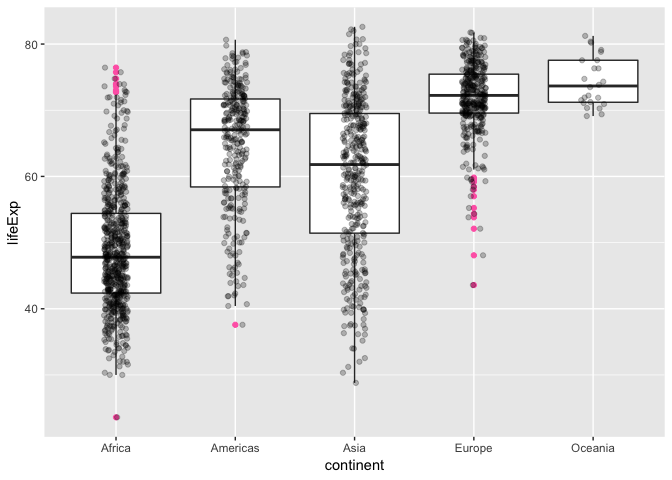
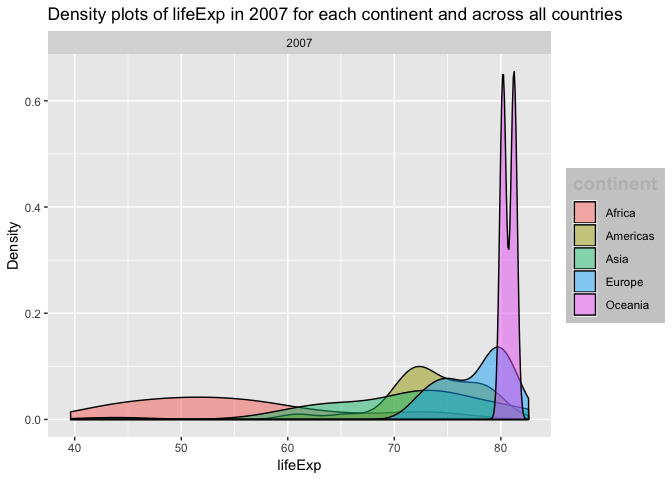
commiting and pushing local changes on gapminder file - exploratory analysis

diff --git a/hw01_gapminder.md b/hw01_gapminder.md
@@ -6,15 +6,71 @@ Becky
 Data exploration using the gapminder data set
 =============================================
 
-Required Libraries
-------------------
+### Required Libraries
 
 ``` r
-library("gapminder")
+library(gapminder)
+require(plyr)
 ```
 
-Dataset exploration and QC
---------------------------
+    ## Loading required package: plyr
+
+``` r
+library(dplyr)
+```
+
+    ## Warning: package 'dplyr' was built under R version 3.5.1
+
+    ## 
+    ## Attaching package: 'dplyr'
+
+    ## The following objects are masked from 'package:plyr':
+    ## 
+    ##     arrange, count, desc, failwith, id, mutate, rename, summarise,
+    ##     summarize
+
+    ## The following objects are masked from 'package:stats':
+    ## 
+    ##     filter, lag
+
+    ## The following objects are masked from 'package:base':
+    ## 
+    ##     intersect, setdiff, setequal, union
+
+``` r
+library(ggplot2)
+library(gapminder)
+gapminder ##calling entire gapminder dataset
+```
+
+    ## # A tibble: 1,704 x 6
+    ##    country     continent  year lifeExp      pop gdpPercap
+    ##    <fct>       <fct>     <int>   <dbl>    <int>     <dbl>
+    ##  1 Afghanistan Asia       1952    28.8  8425333      779.
+    ##  2 Afghanistan Asia       1957    30.3  9240934      821.
+    ##  3 Afghanistan Asia       1962    32.0 10267083      853.
+    ##  4 Afghanistan Asia       1967    34.0 11537966      836.
+    ##  5 Afghanistan Asia       1972    36.1 13079460      740.
+    ##  6 Afghanistan Asia       1977    38.4 14880372      786.
+    ##  7 Afghanistan Asia       1982    39.9 12881816      978.
+    ##  8 Afghanistan Asia       1987    40.8 13867957      852.
+    ##  9 Afghanistan Asia       1992    41.7 16317921      649.
+    ## 10 Afghanistan Asia       1997    41.8 22227415      635.
+    ## # ... with 1,694 more rows
+
+``` r
+max(gapminder$year) 
+```
+
+    ## [1] 2007
+
+``` r
+min(gapminder$year)
+```
+
+    ## [1] 1952
+
+### Dataset exploration and QC - Insepect and understand the dataset before use/ analysis - correct errors like removing NAs
 
 ``` r
 head(gapminder)
@@ -29,6 +85,20 @@ head(gapminder)
     ## 4 Afghanistan Asia       1967    34.0 11537966      836.
     ## 5 Afghanistan Asia       1972    36.1 13079460      740.
     ## 6 Afghanistan Asia       1977    38.4 14880372      786.
+
+``` r
+tail(gapminder)
+```
+
+    ## # A tibble: 6 x 6
+    ##   country  continent  year lifeExp      pop gdpPercap
+    ##   <fct>    <fct>     <int>   <dbl>    <int>     <dbl>
+    ## 1 Zimbabwe Africa     1982    60.4  7636524      789.
+    ## 2 Zimbabwe Africa     1987    62.4  9216418      706.
+    ## 3 Zimbabwe Africa     1992    60.4 10704340      693.
+    ## 4 Zimbabwe Africa     1997    46.8 11404948      792.
+    ## 5 Zimbabwe Africa     2002    40.0 11926563      672.
+    ## 6 Zimbabwe Africa     2007    43.5 12311143      470.
 
 ``` r
 summary(gapminder)
@@ -58,6 +128,181 @@ dim(gapminder)
     ## [1] 1704    6
 
 ``` r
+names(gapminder)
+```
+
+    ## [1] "country"   "continent" "year"      "lifeExp"   "pop"       "gdpPercap"
+
+``` r
+sum(is.na(gapminder$lifeExp))
+```
+
+    ## [1] 0
+
+``` r
+sum(is.na(gapminder$gdpPercap))
+```
+
+    ## [1] 0
+
+``` r
+sum(is.na(gapminder$pop))
+```
+
+    ## [1] 0
+
+``` r
+gapminder[!complete.cases(gapminder),] # view rows with incomplete data
+```
+
+    ## # A tibble: 0 x 6
+    ## # ... with 6 variables: country <fct>, continent <fct>, year <int>,
+    ## #   lifeExp <dbl>, pop <int>, gdpPercap <dbl>
+
+``` r
+gapminder %>% distinct(continent) %>% arrange(continent)
+```
+
+    ## # A tibble: 5 x 1
+    ##   continent
+    ##   <fct>    
+    ## 1 Africa   
+    ## 2 Americas 
+    ## 3 Asia     
+    ## 4 Europe   
+    ## 5 Oceania
+
+``` r
+gapminder %>% distinct(country) %>% arrange(country)
+```
+
+    ## # A tibble: 142 x 1
+    ##    country    
+    ##    <fct>      
+    ##  1 Afghanistan
+    ##  2 Albania    
+    ##  3 Algeria    
+    ##  4 Angola     
+    ##  5 Argentina  
+    ##  6 Australia  
+    ##  7 Austria    
+    ##  8 Bahrain    
+    ##  9 Bangladesh 
+    ## 10 Belgium    
+    ## # ... with 132 more rows
+
+``` r
+gapminder %>% distinct(year) %>% arrange(desc(year))
+```
+
+    ## # A tibble: 12 x 1
+    ##     year
+    ##    <int>
+    ##  1  2007
+    ##  2  2002
+    ##  3  1997
+    ##  4  1992
+    ##  5  1987
+    ##  6  1982
+    ##  7  1977
+    ##  8  1972
+    ##  9  1967
+    ## 10  1962
+    ## 11  1957
+    ## 12  1952
+
+``` r
+unique(gapminder$year)
+```
+
+    ##  [1] 1952 1957 1962 1967 1972 1977 1982 1987 1992 1997 2002 2007
+
+``` r
 #is.na(gapminder)
 #gapm <- na.omit(gapminder)
 ```
+
+### Distribution of gdpPercap across all countries in 2007
+
+``` r
+gapminder %>%
+  filter(year==2007) %>%
+  ggplot() + 
+  geom_histogram(mapping = aes(x = gdpPercap), binwidth = 1000, color = "black") +
+  ggtitle("Distribution of gdpPercap across all countries in 2007") +
+  labs(x="gdpPercap", y="Countries")
+```
+
+![](hw01_gapminder_files/figure-markdown_github/unnamed-chunk-3-1.png)
+
+### Density plots of life expectancy by continent
+
+#### Oldest year 1952
+
+``` r
+lifexp_1952<- gapminder %>% 
+ filter(year == 1952) 
+lifexp_1952 %>%
+ ggplot(aes(x = lifeExp, fill = continent)) + facet_wrap(~year) + geom_density(alpha = 0.5) + ggtitle("Density plots of lifeExp in 1952 for each continent and across all countries") + theme(legend.title = element_text(color = "gray", size = 14, face = "bold"), legend.background = element_rect(fill = "gray80",
+ size = 0.2,
+ linetype = "dashed")) +
+ labs(x="lifeExp", y="Density")
+```
+
+![](hw01_gapminder_files/figure-markdown_github/unnamed-chunk-4-1.png) \#\#\#\# Latest year 2007
+
+``` r
+lifeExp_2007<- gapminder %>% 
+ filter(year == 2007) 
+lifeExp_2007 %>%
+ ggplot(aes(x = lifeExp, fill = continent)) + facet_wrap(~year) + 
+ geom_density(alpha = 0.5) +
+ ggtitle("Density plots of lifeExp in 2007 for each continent and across all countries") +
+ theme(legend.title = element_text(color = "gray",
+ size = 14,
+ face = "bold"),
+ legend.background = element_rect(fill = "gray80",
+ size = 0.5,
+ linetype = "dashed")) +
+ labs(x="lifeExp", y="Density")
+```
+
+![](hw01_gapminder_files/figure-markdown_github/unnamed-chunk-5-1.png)
+
+### Awesome Bubble plot from Jenny's [tutorial on gapminder](https://cran.r-project.org/web/packages/gapminder/README.html)
+
+``` r
+gap_with_colors <-
+  data.frame(gapminder,
+             cc = I(country_colors[match(gapminder$country,
+                                         names(country_colors))]))
+
+# bubble plot, focus just on Africa and Europe in 2007
+keepers <- with(gap_with_colors,
+                continent %in% c("Africa", "Europe") & year == 2007)
+plot(lifeExp ~ gdpPercap, gap_with_colors,
+     subset = keepers, log = "x", pch = 21,
+     cex = sqrt(gap_with_colors$pop[keepers]/pi)/1500,
+     bg = gap_with_colors$cc[keepers])
+```
+
+![](hw01_gapminder_files/figure-markdown_github/unnamed-chunk-6-1.png)
+
+### Life Expectancy across all countries
+
+``` r
+ggplot(aes(x = continent, y = lifeExp), data =gapminder) +
+geom_boxplot(fill = "slategray1") +
+ggtitle("lifeExp across all continents 1952-2007")+theme(plot.title = element_text(hjust = 0.5))
+```
+
+![](hw01_gapminder_files/figure-markdown_github/unnamed-chunk-7-1.png)
+
+``` r
+library("ggplot2")
+ggplot(gapminder, aes(x = continent, y = lifeExp)) +
+geom_boxplot(outlier.colour = "black") +
+ggtitle("lifeExp across all continents 1952-2007")+theme(plot.title = element_text(hjust = 0.5))
+```
+
+![](hw01_gapminder_files/figure-markdown_github/unnamed-chunk-7-2.png)
